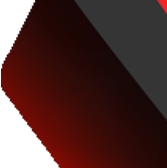
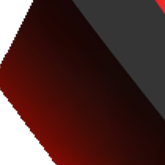
Perfect img size (finally)

diff --git a/src/css/style.css b/src/css/style.css
@@ -153,8 +153,8 @@ a {
 
 #captcha_container{
     position: relative;
-    width: 499px;
-    height: 499px;
+    width: 500px;
+    height: 500px;
 }
 
 .captcha_block{
@@ -164,6 +164,8 @@ a {
     width:33.4%;
     height:33.4%;
     cursor: pointer;
+    transition:left 0.4s, top 0.4s;
+    border: 1px solid #000;
 }
 
 /*reset container*/
